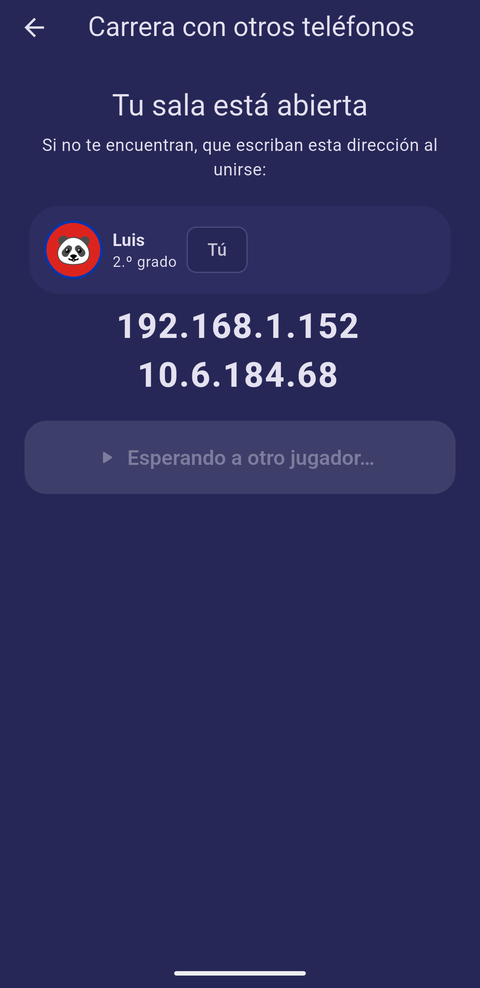
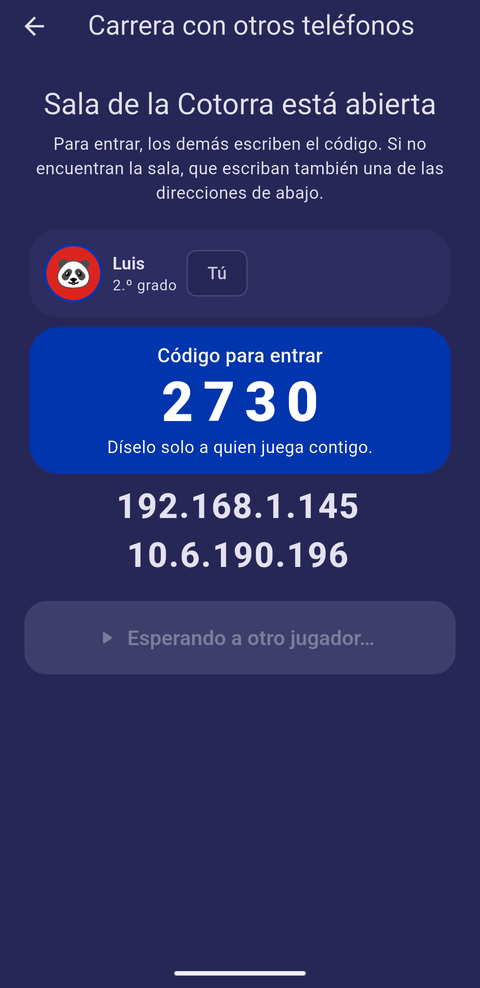
Documentos al dia con la 1.0.1: codigo de sala, segundo plano, seguridad y firma
README, guia de padres, guias 01-06, juego, modelos, esquema de la base, plataformas y
pendiente recogen: codigo de sala de 4 cifras y misma version en todos los telefonos,
foto en red opcional, archivos oficiales, PIN obvios y cierre de la zona de padres, servicio
en primer plano y la regla de no cerrar la app desde Recientes, la primera instalacion
firmada con clave propia (hay que desinstalar una vez) y la version 1.0.1.

Capturas 12 y 13 rehechas con la 1.0.1 (ya no sale el nombre del nino en la lista de salas)
y nueva 16 con el cuadro del codigo. Quitado flutter_secure_storage de los textos.

diff --git a/README.md b/README.md
@@ -9,7 +9,7 @@ contenido de sus propios libros de texto, y lo guía paso a paso en lugar de dar
 - **100 % local**: no envía nada a ningún servidor. Declara el permiso de red solo porque Android lo exige para el
   juego entre teléfonos del mismo Wi-Fi; la app nunca se conecta a internet.
 
-> **Estado:** versión de pruebas (1.0). Probada en un Pixel 6 (8 GB) y en una Xiaomi Pad 5. La versión de 32 bits
+> **Estado:** versión de pruebas (1.0.1). Probada en un Pixel 6 (8 GB), un Redmi Note 9 y una Xiaomi Pad 5. La versión de 32 bits
 > compila pero no se ha probado en un teléfono real. Lo que falta está en [docs/pendiente.md](docs/pendiente.md).
 
 ---
@@ -71,12 +71,15 @@ Decisiones de diseño:
 
 - **Perfiles**: crear, editar y borrar niños.
 - **Archivos**: vincular el modelo de IA, la base de libros y la carpeta de PDF; recomendación de modelo según la
-  RAM; **compartir o copiar** esos archivos a otro dispositivo sin internet.
-- **Apariencia**: tema claro/oscuro, mascota, Pomodoro, lectura en voz alta y modo batería.
+  RAM; **compartir o copiar** esos archivos a otro dispositivo sin internet; indica si el modelo y la base son los
+  oficiales o un archivo no reconocido.
+- **Apariencia**: tema claro/oscuro, mascota, Pomodoro, lectura en voz alta, modo batería y si en el juego en red se
+  envía la foto del niño (apagado por defecto).
 - **Avisos**: recordatorios de estudio (varios, cada uno con su interruptor).
 - **Diagnóstico del tutor** (Zona de padres → Archivos): modelo, hilos, CPU y velocidad de la última respuesta, con
   botón para copiarlo (sin datos personales); útil cuando el tutor va lento.
-- Entrada protegida con PIN de 4 o 6 dígitos y bloqueo tras varios intentos fallidos.
+- Entrada protegida con PIN de 4 o 6 dígitos (se rechazan los obvios: 0000, 1234, 1212…) y bloqueo tras varios
+  intentos fallidos. La zona de padres se cierra sola al salir de la app y tras 10 minutos sin tocarla.
 
 Guía paso a paso para familias: [docs/guia-padres.md](docs/guia-padres.md). Guías cortas para compartir (canal de
 Telegram): [docs/guias/](docs/guias/README.md).
@@ -119,7 +122,7 @@ Piezas importantes:
   tests los reemplazan, de modo que `pumpAndSettle` funciona.
 
 Tecnologías: Flutter 3.x / Dart 3.13, Riverpod 3, go_router, Drift (SQLite), `llama_cpp_dart`, `pdfrx` (PDFium),
-`flutter_tts`, `battery_plus`, `flutter_local_notifications`, `flutter_secure_storage`.
+`flutter_tts`, `battery_plus`, `flutter_local_notifications`.
 
 ## Qué NO incluye este repositorio
 
@@ -288,8 +291,9 @@ lib/
 ├─ core/
 │  ├─ di/                       proveedores compartidos (inyección de dependencias)
 │  ├─ router/                   rutas go_router y redirecciones por sesión
-│  ├─ storage/                  base de datos Drift (perfiles, historial, medallas…)
-│  ├─ security/                 hash del PIN (PBKDF2) y bloqueo por intentos
+│  ├─ storage/                  base de datos Drift (perfiles, historial, medallas…), apertura segura de
+│  │                            la knowledge.db (openUntrustedDb) y servicio en primer plano (background_work)
+│  ├─ security/                 hash del PIN (PBKDF2), bloqueo por intentos y PIN obvios
 │  ├─ theme/, responsive/       tema normal y de ahorro; adaptación móvil/tablet
 │  └─ widgets/                  splash, teclado de PIN, badge sin internet
 └─ features/
@@ -302,18 +306,23 @@ lib/
    ├─ mascot/                   Toco
    ├─ pomodoro/                 estudio y descanso
    ├─ speech/                   lectura en voz alta
-   ├─ quiz/, achievements/      quiz y medallas
+   ├─ quiz/, flashcards/        quiz y tarjetas de memoria
+   ├─ achievements/             medallas
+   ├─ game/                     juego «Carrera de tocororos» (en un teléfono o en red con código de sala)
    ├─ power/                    modo batería / apagón
    ├─ appearance/, notifications/ ajustes y recordatorios
-   └─ external_data/            vincular, compartir y copiar modelo, base y libros
+   └─ external_data/            vincular, compartir y copiar modelo, base y libros; archivos oficiales
+android/.../TutorWorkService.kt servicio en primer plano mientras el modelo trabaja
+assets/official/                lista de archivos oficiales (tamaño y SHA-256)
+landing/                        web de presentación (HTML estático)
 native/llama/                   script para compilar llama.cpp para Android
-tools/                          knowledge_builder (libros → base) y mascot (iconos)
+tools/                          build_apks, crear_keystore, official_files, knowledge_builder, question_bank, mascot
 docs/                           documentación detallada
 test/                           pruebas
 ```
 
-Estado con **Riverpod**; navegación con **go_router**; persistencia con **Drift** (esquema v3 con migraciones);
-preferencias con `shared_preferences`; el PIN y secretos con `flutter_secure_storage`.
+Estado con **Riverpod**; navegación con **go_router**; persistencia con **Drift** (esquema v4 con migraciones);
+preferencias con `shared_preferences`; el hash del PIN va en la base local (no hay secretos que guardar).
 
 ## Pruebas
 
@@ -344,7 +353,8 @@ prueban en un dispositivo físico.
   el texto de los libros no puede colar órdenes al modelo (los marcadores de turno se neutralizan). Zona de padres
   → Archivos indica si el modelo y la base son los publicados (`assets/official/official_files.json`, generado con
   `tools/official_files.py`; hay que regenerarlo al publicar una base nueva).
-- **Permisos usados:** notificaciones y alarmas exactas (recordatorios), arranque del sistema (reprogramarlos) y
+- **Permisos usados:** notificaciones y alarmas exactas (recordatorios), arranque del sistema (reprogramarlos),
+  servicio en primer plano y `WAKE_LOCK` (para que el tutor siga respondiendo con la app fuera de la pantalla) y
   acceso a todos los archivos solo para el explorador de carpetas opcional de Android 11+, porque el modelo y los
   libros pesan gigas.
 - **Compartir** (modelo, base, libros) usa el selector del sistema: el usuario elige el destino.
@@ -355,11 +365,16 @@ prueban en un dispositivo físico.
   varias preguntas seguidas (los núcleos bajan de frecuencia). El 1.5B es más rápido pero se equivoca más.
 - **La calidad del quiz con el 3B es floja**: puede generar preguntas ambiguas. Se filtran, pero conviene que un
   adulto las revise. Mejoraría con el modelo de 7B o con preguntas hechas por plantillas.
+- **Segundo plano.** Mientras el modelo carga o responde (tutor, tarjetas, quiz) la app muestra el aviso «Toco está
+  pensando…» y se puede salir de ella o apagar la pantalla; al terminar fuera de la app avisa «¡Toco ya terminó!».
+  **Cerrarla desde Recientes detiene la respuesta**: el modelo vive dentro de la pantalla de la app. En algunos
+  Xiaomi/Redmi hay que poner el ahorro de batería de inocencIA en «Sin restricciones».
 - Un modelo de IA pequeño **puede equivocarse**; por eso el tutor cita siempre la página del libro.
 - La lectura en voz alta necesita datos de voz en español instalados en el dispositivo.
 - La versión de **32 bits** (armeabi-v7a) está sin probar en un teléfono real; un proceso de 32 bits tiene unos
   3 GB de memoria, así que el modelo realista allí es el de 1.5B.
-- El APK de release se firma con la clave de depuración.
+- La release se firma con la clave propia (ver «Compilar la release»); solo las pruebas en teléfonos de desarrollo
+  usan la de depuración.
 
 La lista viva de lo pendiente está en [docs/pendiente.md](docs/pendiente.md).
 

diff --git a/docs/guia-padres.md b/docs/guia-padres.md
@@ -15,6 +15,9 @@ sola vez.
 ## 2. Crear tu PIN
 Al abrir la app por primera vez te pide tu nombre y un **PIN de 4 o 6 dígitos**. Con él entras a la
 **Zona de padres** (el candado de arriba a la derecha). Apúntalo: si lo olvidas, no hay forma de recuperarlo.
+La app no acepta PIN obvios (0000, 1234, 1212, 2580…): elige uno que un niño no adivine. Si alguien falla varias
+veces, la entrada se bloquea un rato, y cambiar la hora del teléfono no lo evita. La zona de padres se cierra sola
+cuando sales de la app y tras 10 minutos sin tocarla.
 
 ## 3. Copiar el modelo y los libros
 Necesitas tres archivos:
@@ -47,9 +50,13 @@ al perfil de un niño mayor.
 
 ## 6. Ajustes de la Zona de padres
 - **Apariencia**: tema claro/oscuro, tamaño de Toco, **Pomodoro** (15+5 min de 1.º a 3.º, 20+5 min de 4.º a 6.º),
-  **lectura en voz alta** y **modo batería**.
-- **Avisos**: recordatorios de estudio (cada uno con su interruptor).
-- **Archivos**: copiar o **Compartir** el modelo, la base y los libros a otro dispositivo, sin internet.
+  **lectura en voz alta**, **modo batería** y **Enviar la foto en el juego en red** (apagado: en las partidas con
+  otros teléfonos el niño sale con un emoji y su foto no sale del teléfono; encendido: los demás ven una miniatura).
+- **Avisos**: recordatorios de estudio (cada uno con su interruptor). En la pantalla de bloqueo solo se ve que hay un
+  aviso de inocencIA; el nombre del niño aparece con el teléfono desbloqueado.
+- **Archivos**: copiar o **Compartir** el modelo, la base y los libros a otro dispositivo, sin internet. Cada
+  archivo dice si es **oficial** (coincide con el publicado) o **no reconocido**: si un archivo llegó por Bluetooth o
+  ShareIt y no lo reconoce, vuelve a copiarlo desde el canal oficial, porque pudo cambiar por el camino.
 
 ## Lo que ve el niño
 - **Mi tutor**: pregunta lo que no entienda; el tutor da un paso y pregunta, no resuelve los ejercicios. Cada
@@ -59,8 +66,9 @@ al perfil de un niño mayor.
 - **Mis medallas**: logros y estrellas (se abren desde la tarjeta roja del inicio).
 - **Jugar**: "Carrera de tocororos" (gana quien llegue antes) o "Entre todos" (cooperativo). Cada niño responde
   preguntas de **su** grado, así pueden jugar hermanos o amigos de grados distintos. Se juega **en un teléfono**
-  (2-4 niños se lo pasan por turnos) o **con otros teléfonos**: uno crea la sala y los demás se unen, conectados al
-  mismo Wi-Fi o al **punto de acceso** del que crea la sala (no hace falta tener datos ni internet).
+  (2-4 niños se lo pasan por turnos) o **con otros teléfonos**: uno crea la sala y los demás se unen con el **código de
+  4 cifras** que sale en su pantalla, conectados al mismo Wi-Fi o al **punto de acceso** del que crea la sala (no hace
+  falta tener datos ni internet). Todos los teléfonos deben tener la misma versión de inocencIA.
   Las preguntas salen del banco del juego que viene en la base de libros y de las tarjetas de cada niño.
 - **Pomodoro**: tras estudiar, Toco avisa del descanso y el chat se bloquea hasta que acabe.
 - **Icono de batería**: activa el modo apagón (pantalla negra, tutor más ligero). Con menos del 20 % Toco lo
@@ -72,8 +80,13 @@ dentro de casa o del aula. inocencIA **no se conecta nunca a internet**: solo ha
 red Wi-Fi o del mismo punto de acceso, y solo mientras hay una partida abierta.
 
 ## Si algo falla
-- **En "Con otros teléfonos" no aparece la sala**: comprobad que todos están en el mismo Wi-Fi o punto de acceso.
-  Algunas redes no dejan anunciar salas: escribid la dirección que muestra el teléfono que creó la sala.
+- **En "Con otros teléfonos" no aparece la sala**: comprobad que todos están en el mismo Wi-Fi o punto de acceso y que
+  todos tienen la misma versión de la app. Algunas redes no dejan anunciar salas: escribid la dirección que muestra el
+  teléfono que creó la sala y, al entrar, el código.
+- **"El código de la sala no es ese"**: mira bien las 4 cifras en el teléfono que creó la sala. Tras 5 códigos
+  equivocados desde un mismo teléfono ya no se le deja entrar mientras esa sala siga abierta; cierra la sala y crea otra.
+- **La sala aparece y desaparece de la lista**: la lista se borra sola cuando el anfitrión deja de anunciarla (por
+  ejemplo, al empezar la partida).
 - **"No se pudo abrir la sala"** o no se puede entrar: puede que el teléfono tenga apagado el acceso a la red para
   inocencIA (*Ajustes › Aplicaciones › inocencIA › Datos móviles y Wi-Fi*). Actívalo para jugar entre teléfonos; la
   app sigue sin conectarse a internet.
@@ -99,4 +112,6 @@ red Wi-Fi o del mismo punto de acceso, y solo mientras hay una partida abierta.
   automático** la deshace). Si sigue lento, activa **CPU en modo compatible**, cierra la app del todo, vuelve a abrirla
   y repite la prueba. Pulsa **Copiar** y envía ese texto a quien mantiene la app. No lleva nombres ni preguntas.
 - **Desinstalar la app borra los datos** (perfiles, historial, medallas). Para actualizarla, instala el APK nuevo
-  encima, sin desinstalar.
+  encima, sin desinstalar. Cada actualización lleva un número de versión nuevo (1.0.1, 1.0.2…).
+  **Excepción:** la primera versión firmada con la clave propia no se puede instalar encima de las anteriores (Android
+  lo rechaza porque cambia la firma): hay que desinstalar una vez, así que antes copia lo que quieras conservar.

diff --git a/docs/pendiente.md b/docs/pendiente.md
@@ -1,6 +1,6 @@
 # Lo que falta para terminar inocencIA
 
-Estado a 29-oct-2026 (actualizado el 9-nov). Hecho: base, perfiles, PIN y zona de padres; tutor local con RAG; recordatorios (varios,
+Estado a 29-oct-2026 (actualizado el 20-nov, versión 1.0.1). Hecho: base, perfiles, PIN y zona de padres; tutor local con RAG; recordatorios (varios,
 cada uno con su interruptor); chat con historial por niño; libros PDF con página guardada y carpeta que busca
 el padre; mascota Toco; exportar/compartir offline el modelo, la base y los libros; splash con Toco y una frase
 al azar. Probado en una **Xiaomi Pad 5** (tablet real): "va muy bien". Lo que queda:
@@ -40,9 +40,10 @@ al azar. Probado en una **Xiaomi Pad 5** (tablet real): "va muy bien". Lo que qu
 - [ ] **Probar el modelo de 7B en un móvil de 12 GB.** Está descargado (`models/qwen2.5-7b-instruct-q4_k_m.gguf`)
   y en el catálogo, pero **sin medir**: no cabe con margen en el Pixel 6 de 8 GB. Se espera ~2,3× la latencia
   del 3B ([models.md](models.md)).
-- [ ] **APK de producción firmado.** Hoy el release se firma con la clave de depuración
-  (`android/app/build.gradle.kts`). Hay que crear el keystore y compilar por ABI
-  (`flutter build apk --release --split-per-abi`).
+- [ ] **APK de producción firmado.** La firma ya está configurada (`android/key.properties`,
+  `tools/crear_keystore.sh`; `build_apks.sh` no compila sin la clave). Falta **crear el keystore** (con copia de
+  seguridad fuera del ordenador) y desinstalar una vez en los teléfonos de prueba antes de instalar la primera
+  versión firmada.
 - [x] ~~Guías para compartir en Telegram~~ (9-nov): [guias/](guias/README.md), 6 guías cortas.
 - [x] ~~Manual corto para padres~~ (29-oct): [guia-padres.md](guia-padres.md). Falta revisarlo con un padre real
   (feedback de los amigos) y añadir cómo borrar conversaciones.
@@ -60,7 +61,9 @@ al azar. Probado en una **Xiaomi Pad 5** (tablet real): "va muy bien". Lo que qu
 - [x] ~~Probar la partida en red con dos teléfonos de verdad~~ (9-nov, Pixel 6 + Redmi Note 9, Wi-Fi de casa): el
   descubrimiento por UDP funciona en los dos sentidos (sala visible sin escribir la IP), se unen, cada uno recibe
   preguntas de su grado (4.º y 2.º) y la ronda avanza a la vez en ambos. Sin probar aún: punto de acceso del
-  teléfono, 3+ jugadores, y terminar una partida entera.
+  teléfono, 3+ jugadores, y terminar una partida entera. El 20-nov se probó el protocolo v2 (código de sala) entre el
+  Redmi (anfitrión) y el Pixel 6 (invitado), con una partida completa, un código erróneo rechazado y un envío de 4 MB
+  sin salto de línea cortado.
   - Si en un móvil falla hasta *crear* la sala (`Failed to create server socket ... errno = 111`), Android le está
     bloqueando la red a la app (`dumpsys netpolicy`: `REJECT_ALL` / `Restricted networking mode: true`). Pasaba en el
     Pixel 6 con `settings global restricted_networking_mode=1`; no es un fallo de la app.
@@ -139,7 +142,7 @@ al azar. Probado en una **Xiaomi Pad 5** (tablet real): "va muy bien". Lo que qu
 - [ ] Medir Q4_0 en la Pad 5 y el 17T Pro.
 - Los hilos ahora salen de los núcleos rápidos (`lib/features/tutor/domain/cpu_threads.dart`), no de «núcleos/2».
 
-## Seguridad (revisión del 29-oct, pendiente de aplicar antes de publicar)
+## Seguridad (revisión del 29-oct; lo aplicado hasta el 20-nov está marcado)
 - [x] ~~Desactivar la copia de seguridad de Android~~ (29-oct, `allowBackup="false"`). Antes: añadir `android:allowBackup="false"` en `<application>` de
   `AndroidManifest.xml`. Hoy `adb backup` o la copia en la nube pueden sacar la base con nombres, historial y los
   hashes de PIN (un PIN de 4 dígitos se averigua con 10.000 intentos). Exige recompilar la release.
@@ -160,6 +163,13 @@ al azar. Probado en una **Xiaomi Pad 5** (tablet real): "va muy bien". Lo que qu
     (7,3 piezas/s), igual que en pantalla.
   - Pixel 6 (Android 16), pantalla apagada: 36 s, wake lock tomado y liberado, aviso "¡Toco ya terminó!".
   - Cerrar desde Recientes a mitad: servicio, aviso y wake lock fuera; la respuesta se pierde (esperado).
+- Versión **1.0.1+5** (`pubspec.yaml`): cada actualización lleva un número de versión nuevo (1.0.2+6…); ver el README.
+- La release va **ofuscada** (`--obfuscate`); los símbolos quedan en `build/simbolos/<versión>/`: guárdalos para leer
+  un fallo.
+- Web de presentación en `landing/` (HTML estático, sin scripts de terceros, botón de tema claro/oscuro) y el workflow
+  `.github/workflows/pages.yml` que la publica en GitHub Pages.
+- [ ] **Publicar la web.** Reemplazar `TU_USUARIO/inocencia` y `TU_CANAL` en `landing/index.html` (descargas, código
+  fuente y Telegram) y activar en GitHub *Settings › Pages › Source: GitHub Actions*.
 - [ ] Probar en un Xiaomi con HyperOS de fábrica (el Redmi de pruebas lleva otra ROM) y en Android 10-12.
 
 - [x] Juego en red: código de sala de 4 cifras, aviso sin el nombre del niño, entradas limitadas (líneas, nombres,

diff --git a/docs/guias/05-jugar.md b/docs/guias/05-jugar.md
@@ -29,14 +29,17 @@ Cada niño en su teléfono (hasta 6). **No hace falta internet ni datos**: basta
 1. Uno de los teléfonos activa su **punto de acceso** (o todos se conectan al mismo Wi-Fi de casa o de la escuela).
 2. En ese teléfono: **Jugar → Con otros teléfonos → Crear sala**.
 
-<p align="center"><img src="img/11-con-otros-telefonos.png" alt="Con otros teléfonos: Crear sala o Unirme a una sala" width="240"> <img src="img/12-sala-abierta.png" alt="Sala abierta, con el niño que la creó y las direcciones para entrar a mano" width="240"></p>
+<p align="center"><img src="img/11-con-otros-telefonos.png" alt="Con otros teléfonos: Crear sala o Unirme a una sala" width="240"> <img src="img/12-sala-abierta.png" alt="Sala abierta: el nombre de la sala, el código de 4 cifras en grande y las direcciones para entrar a mano" width="240"></p>
    La pantalla muestra el **nombre de la sala** (por ejemplo "Sala del Sinsonte") y un **código de 4 cifras**.
 3. En los demás: **Jugar → Con otros teléfonos → Unirme a una sala**. La sala aparece sola. Si no aparece, escribe
    la dirección que se ve en el teléfono que creó la sala. Al pulsar **Entrar**, escribe el **código** que se ve en
    el teléfono que creó la sala. Así no se cuela nadie que esté en el mismo Wi-Fi.
+
+<p align="center"><img src="img/13-salas-cercanas.png" alt="Salas cercanas: aparece la Sala de la Cotorra, con el grado y el modo, y el botón Entrar" width="240"> <img src="img/16-codigo-sala.png" alt="Cuadro «Código de la sala»: se escriben las 4 cifras que se ven en el teléfono del anfitrión" width="240"></p>
+
 4. Cuando estén todos, el que creó la sala pulsa **¡Empezar!** y empieza la partida.
 
-<p align="center"><img src="img/13-salas-cercanas.png" alt="Salas cercanas: aparece la sala de Pepe con el botón Entrar" width="240"> <img src="img/14-en-la-sala.png" alt="Ya estás en la sala, esperando a que el anfitrión empiece" width="240"></p>
+<p align="center"><img src="img/14-en-la-sala.png" alt="Ya estás en la sala, esperando a que el anfitrión empiece" width="240"></p>
 
 Ya jugando, cada niño ve **su** pregunta (del libro de su grado) y su tocororo avanza con cada acierto:
 
@@ -56,8 +59,14 @@ solo mientras hay una partida abierta.
 
 ## Si algo falla
 
-- **No aparece la sala**: comprobad que todos están en el mismo Wi-Fi o punto de acceso. Algunas redes no dejan
-  anunciar salas: escribid a mano la dirección que muestra el teléfono que creó la sala.
+- **No aparece la sala**: comprobad que todos están en el mismo Wi-Fi o punto de acceso y que todos tienen la misma
+  versión de inocencIA. Algunas redes no dejan anunciar salas: escribid a mano la dirección que muestra el teléfono
+  que creó la sala y, al entrar, el código.
+- **"El código de la sala no es ese"**: mira bien las 4 cifras en el teléfono que creó la sala. Tras 5 códigos
+  equivocados desde un mismo teléfono ya no lo dejan entrar mientras esa sala siga abierta: cerrad la sala y crea
+  otra.
+- **La sala desapareció de la lista**: se borra sola cuando el que la creó deja de anunciarla (por ejemplo, porque ya
+  empezó la partida o salió de la sala).
 - **"No se pudo abrir la sala"** o no se puede entrar: puede que el teléfono tenga bloqueado el acceso a la red para
   inocencIA. Actívalo en *Ajustes › Aplicaciones › inocencIA › Datos móviles y Wi-Fi*.
 - **"No hay preguntas para jugar"**: la base de libros no trae las preguntas del juego y el niño tiene menos de 3

diff --git a/docs/guias/03-primeros-pasos.md b/docs/guias/03-primeros-pasos.md
@@ -4,7 +4,8 @@ Esto se hace una sola vez, después de [instalar la app y copiar los archivos](0
 
 ## 1. Tu nombre y tu PIN
 
-La primera vez que abres la app te pide **tu nombre** y un **PIN de 4 o 6 números**.
+La primera vez que abres la app te pide **tu nombre** y un **PIN de 4 o 6 números**. La app no acepta los PIN
+obvios (0000, 1234, 1212…): elige uno que un niño no adivine.
 
 Con ese PIN entras en la **Zona de padres**: es el **candado** de arriba a la derecha en la pantalla donde se
 elige el perfil. **Apúntalo en un sitio seguro**: si lo olvidas, no se puede recuperar (habría que borrar los datos
@@ -27,7 +28,9 @@ Después verás la pantalla donde se elige el perfil. El **candado** de arriba a
 
 <p align="center"><img src="img/04-archivos-modelo.png" alt="Pestaña Archivos: modelo recomendado y modelo vinculado, con el aviso Listo" width="240"> <img src="img/05-archivos-libros.png" alt="Pestaña Archivos: Libros para leer (PDF), 49 de 49 libros en el teléfono" width="240"></p>
 
-Cuando todo está bien, el modelo y la base muestran **Listo** en verde, y en **Libros para leer** aparece
+Cuando todo está bien, el modelo y la base muestran **Listo** en verde y, debajo, **Archivo oficial de inocencIA** si
+coinciden con los publicados (si dice **Archivo no reconocido**, puede ser una versión nueva u otro modelo; si no sabes
+de dónde salió, vuelve a copiarlo desde el canal). En **Libros para leer** aparece
 "*X de X libros están en este teléfono*" y el grado de cada niño con una marca verde.
 
 ## 3. Crear el perfil de cada niño
@@ -45,8 +48,9 @@ Cuando todo está bien, el modelo y la base muestran **Listo** en verde, y en **
 
 En **Zona de padres**:
 
-- **Apariencia**: tema claro u oscuro, tamaño de Toco, **Pomodoro** (descansos), **lectura en voz alta** y
-  **modo batería**.
+- **Apariencia**: tema claro u oscuro, tamaño de Toco, **Pomodoro** (descansos), **lectura en voz alta**,
+  **modo batería** y **Enviar la foto en el juego en red** (apagado: en las partidas con otros teléfonos el niño sale
+  con un emoji y su foto no sale del teléfono).
 - **Avisos**: recordatorios para estudiar (puedes poner varios, cada uno con su interruptor).
 
 ## 5. Si el tutor va lento: la prueba de velocidad

diff --git a/docs/otras-plataformas.md b/docs/otras-plataformas.md
@@ -14,7 +14,7 @@ aceptación y las necesidades de los usuarios en Android antes de ampliar.
 
 ## Qué habría que hacer
 1. `flutter config --enable-linux-desktop --enable-windows-desktop` y `flutter create --platforms=linux,windows .`
-2. **Paquetes**: soportan escritorio `llama_cpp_dart`, `pdfrx`, `flutter_tts`, `flutter_secure_storage`, `sqlite3`,
+2. **Paquetes**: soportan escritorio `llama_cpp_dart`, `pdfrx`, `flutter_tts`, `sqlite3`,
    `path_provider`. Sin soporte o limitado: `android_alarm_manager_plus` (solo Android), `battery_plus`,
    `flutter_local_notifications`, `image_picker`. Envolverlos con `Platform.isAndroid` o dar versión de escritorio.
 3. **Motor del tutor (lo más grande)**: compilar llama.cpp para Linux x86_64 y Windows x64 (CMake,
@@ -24,7 +24,8 @@ aceptación y las necesidades de los usuarios en Android antes de ampliar.
 4. **Rutas de datos**: hoy `knowledge.db`, modelos y libros van a `/sdcard/Android/data/...`. En escritorio usar
    `path_provider` y dejar elegir la carpeta de modelos y libros (`external_files_repository_impl.dart`).
 5. **Juego en red**: TCP/UDP ya es Dart puro; `LanPlatform` debe ser un no-op en escritorio. Abrir el
-   cortafuegos (puertos 47320 UDP y 47321 TCP; Windows Defender pedirá permiso).
+   cortafuegos (puertos 47320 UDP y 47321 TCP; Windows Defender pedirá permiso). El juego usa el protocolo v2: sala con
+   código de 4 cifras y aviso sin el nombre del niño (ver [juego.md](juego.md)).
 6. **Interfaz**: está pensada para móvil vertical; revisar ventana, ratón/teclado y la voz (Linux necesita `speech-dispatcher`).
 7. **Empaquetado**: Windows con Inno Setup (.exe) o MSIX (sin firma de código, SmartScreen avisa de editor
    desconocido); .deb con `dpkg-deb` o `fpm`; .rpm con `.spec` + `rpmbuild` o `fpm`. Un `tools/build_desktop.sh`

diff --git a/docs/knowledge_db_schema.md b/docs/knowledge_db_schema.md
@@ -1,7 +1,9 @@
 # Contrato de la base de conocimiento (`.db`)
 
 inocencIA no incluye los libros de texto: se transfieren al teléfono como un archivo SQLite
-y el padre/madre lo vincula desde **Zona de padres → Archivos**. La app lo abre en **solo lectura**.
+y el padre/madre lo vincula desde **Zona de padres → Archivos**. La app lo abre en **solo lectura** y sin confiar en
+su esquema (`openUntrustedDb`: `trusted_schema=OFF`, `query_only` y `cell_size_check`), porque este archivo se pasa de
+teléfono en teléfono y podría venir manipulado.
 
 Versión del esquema soportada: **`1`**.
 
@@ -75,7 +77,8 @@ CREATE INDEX game_questions_grade ON game_questions(grade);
 ## Validación en la app
 
 Al vincular y en cada arranque se comprueba: existe y se puede leer, es SQLite, tiene `meta`,
-`chunks` y `chunks_fts`, y `schema_version` es `1`. Además se muestran el número de
+`chunks` y `chunks_fts` (**tablas reales, no vistas**), y `schema_version` es `1`; un tipo inesperado en las columnas
+también la marca como no válida, sin romper la app. Además se muestran el número de
 fragmentos, los grados y las asignaturas que contiene.
 
 Referencia de pruebas: `test/external_file_validator_test.dart`.

diff --git a/docs/juego.md b/docs/juego.md
@@ -14,7 +14,10 @@ Código: `lib/features/game/` (reglas puras en `domain/game_rules.dart`).
 
 ## Modos
 - **En este teléfono**: 2-4 perfiles del teléfono se lo pasan por turnos ("Le toca a Ana").
-- **Con otros teléfonos** (hasta 6): uno crea la sala; los demás la ven en "Unirme" o escriben su IP.
+- **Con otros teléfonos** (hasta 6): uno crea la sala; los demás la ven en "Unirme" (o escriben su IP) y escriben el
+  **código de 4 cifras** que muestra el anfitrión. Todos los teléfonos necesitan la misma versión de la app: el
+  protocolo v2 no habla con el v1. Una sala que deja de anunciarse (cerró o empezó la partida) desaparece de la lista
+  a los 5 s.
   - Red: Wi-Fi común o el **punto de acceso** del anfitrión (sin datos). TCP 47321 para la partida y avisos UDP de
     difusión en 47320 (`domain/lan_protocol.dart`, JSON por líneas con versión).
   - Seguridad (protocolo v2): el anfitrión muestra un **código de 4 cifras** que hay que escribir para entrar;

diff --git a/docs/guias/02-descargar-e-instalar.md b/docs/guias/02-descargar-e-instalar.md
@@ -39,7 +39,15 @@ le conviene a ese teléfono.
 3. Pulsa **Instalar**.
 
 Para **actualizar** la app, instala el `.apk` nuevo **encima**, sin desinstalar la anterior. **Desinstalar borra
-los perfiles, el historial y las medallas.**
+los perfiles, el historial y las medallas.** Cada actualización lleva un número de versión nuevo en el nombre del
+archivo (`inocencIA-1.0.1-…`, `inocencIA-1.0.2-…`): coge siempre el más alto.
+
+**Una sola vez** hará falta desinstalar: la primera versión firmada con la clave propia de inocencIA no se puede poner
+encima de las anteriores, porque Android no deja cambiar la firma de una app. Antes, anota tus perfiles (se
+vuelven a crear en un minuto). Después ya se actualiza siempre encima.
+
+¿Quieres comprobar que el archivo es el original? En el canal va junto a cada versión el archivo `SHA256SUMS`, con la
+huella de cada `.apk`; debe coincidir con la que calcula tu gestor de archivos.
 
 ## Dónde copiar los archivos
 

diff --git a/docs/guias/06-problemas-y-soluciones.md b/docs/guias/06-problemas-y-soluciones.md
@@ -4,8 +4,9 @@ Busca tu problema en la lista. Si nada funciona, mira el final: **cómo pedir ay
 
 ## La app no se instala
 
-- **"App no instalada"** al poner una versión nueva: puede que la anterior se instalara desde otro archivo
-  distinto. Pregunta en el canal antes de desinstalar: **desinstalar borra perfiles, historial y medallas**.
+- **"App no instalada"** al poner una versión nueva: puede que la anterior estuviera firmada con otra clave. Pasa una
+  sola vez, con la primera versión firmada con la clave propia de inocencIA (o si la anterior se instaló desde otro
+  archivo distinto). Pregunta en el canal antes de desinstalar: **desinstalar borra perfiles, historial y medallas**.
 - **No deja instalar**: permite instalar apps de **origen desconocido** para Telegram o tu gestor de archivos
   (Android lo pregunta al abrir el `.apk`).
 - Necesita **Android 10 o superior**.

diff --git a/docs/guias/04-uso-para-ninos.md b/docs/guias/04-uso-para-ninos.md
@@ -25,7 +25,8 @@ Además:
 
 Mientras el tutor responde **puedes salir de la app o apagar la pantalla**: arriba aparece el aviso *"Toco está
 pensando…"* y la respuesta sigue a buen ritmo. Cuando termina, otro aviso dice *"¡Toco ya terminó!"*; tócalo para
-volver. **No cierres la app desde Recientes** (deslizándola hacia fuera): eso sí detiene la respuesta.
+volver. **No cierres la app desde Recientes** (deslizándola hacia fuera): eso sí detiene la respuesta. En Android 13
+o superior, permite las **notificaciones** de inocencIA para ver estos avisos; la respuesta funciona igual sin ellos.
 
 Cuánto tarda: con el modelo recomendado, unos 20-40 segundos en empezar a escribir, según el teléfono. Es normal:
 todo se calcula dentro del teléfono, sin internet.

diff --git a/docs/models.md b/docs/models.md
@@ -1,7 +1,10 @@
 # Modelos de IA para inocencIA
 
 La app no trae el modelo: se descarga una vez (con internet), se copia al teléfono y se
-vincula en **Zona de padres → Archivos**. La pestaña muestra el modelo recomendado según la RAM.
+vincula en **Zona de padres → Archivos**. La pestaña muestra el modelo recomendado según la RAM y si el archivo es
+**oficial** o **no reconocido**: la app compara su tamaño y su SHA-256 con `assets/official/official_files.json`. Al
+publicar un modelo o una base nuevos hay que añadir su huella con `python3 tools/official_files.py <archivos>` y
+recompilar la app.
 
 ## Modelos probados (formato GGUF, cuantización Q4_K_M)
 
